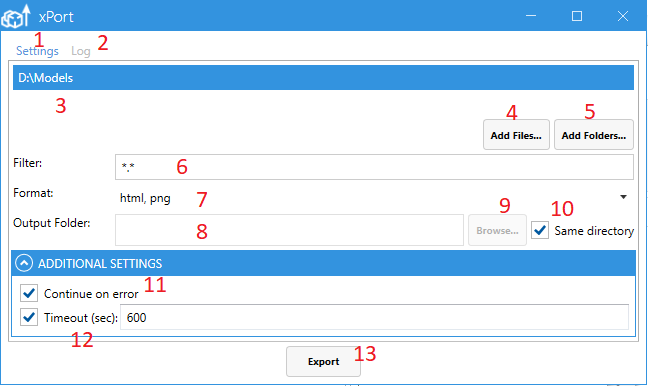
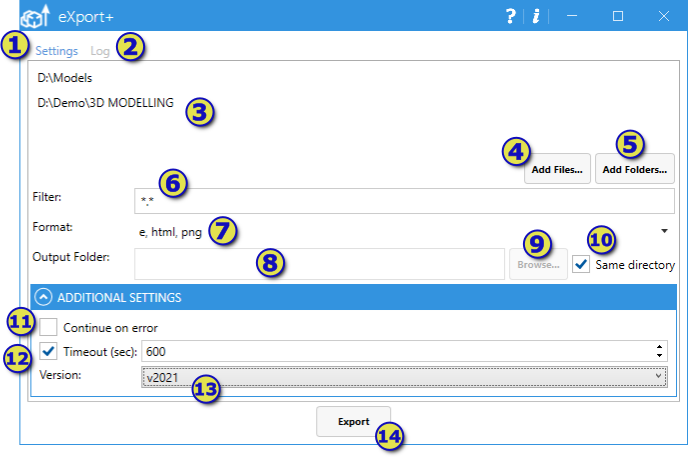
Updated documentation to match new version

Changed region(s): [[0.0, 0.0, 1.0, 1.0]]

diff --git a/docs/batch/user-interface/index.md b/docs/batch/user-interface/index.md
@@ -43,6 +43,8 @@ Backstage panel is available when **File** command is clicked in the ribbon tool
 1. Save current document
 1. Save current document as new file
 1. Close active document
+1. Navigate to help web page
+1. Open About dialog
 
 > When creating new document or opening existing one while there is an active document, command will open new window.
 
@@ -70,17 +72,50 @@ Document settings can be controlled in the settings group.
 ![Settings ribbon group](ribbon-bar-settings.png)
 
 1. Version of SOLIDWORKS to launch for opening files and running macros
-1. Safe startup options - runs SOLIDWORKS in safe mode bypassing options
+1. Safe startup options - runs SOLIDWORKS in safe mode bypassing options. If this option is selected none of the add-ins will be loaded to the session of SOLIDWORKS
 1. Background startup - runs SOLIDWORKS in background. This option only available for SOLIDWORKS Professional or higher
 1. Silent startup option - runs SOLIDWORKS and with disabled popup messages and splash screen
+1. Hidden startup option - hides SOLIDWORKS window. This can improve performance however some of the API might not work properly in this mode
 1. Silent file open option - suppresses all popup dialogs, such as missing references when opening file
-1. Read Only file open option - open files in read-only mode ensuring it cannot be overwritten
 1. Rapid file open option - open files in a rapid mode:
     * For drawings - opens in detailing mode. Some of the APIs might not be available in this mode
-    * For parts and assemblies - currently not supported and will be ignored
+    * For assemblies - components are loaded lightweight
+    * For parts - currently not supported and will be ignored
+1. Invisible mode. Allows to open all files invisibly. This significantly improves the performance however some of the API might not be accessible. Macro need to access arguments to connect to the target document as active model will not be available due to it was opened in invisible mode. Read [Model pointer in invisible mode](#model-pointer-in-invisible-mode) for more information
+1. Read Only file open option - open files in read-only mode ensuring it cannot be overwritten
+1. Forbid Files Upgrade - allows to forbid upgrade of the file if it is of a later version than the SOLIDWORKS. SOLIDWORKS is backward compatible, but not forward compatible which means that files cannot be opened in the older version of SOLIDWORKS. This option checks if current session of SOLIDWORKS is newer than the file and rejects saving operation if this is the case. It is recommended to keep this option selected unless it is explicitly required to upgrade files.
+1. Automatically Save Documents - this option will perform the save of the document after each macro run
 1. Processing timeout in seconds for processing a single file
 1. Allows batch process to continue if any of the files failed to process (for example file cannot be opened). If this option is not checked, batch process will be terminated once the error appears.
 1. Batch size - maximum number of files allowed to process within single session of SOLIDWORKS. Once this maximum is reached Batch+ automatically restarts SOLIDWORKS and continues to process files. This option allows to release resources and improve the performance of batch operations.
+
+#### Model pointer in invisible mode
+
+Most VBA macros will connect to active SOLIDWORKS model and perform the operation. The code will look like this:
+
+~~~ vb jagged-bottom
+Dim swApp As SldWorks.SldWorks
+Dim swModel As SldWorks.ModelDoc2
+~~~
+
+~~~ vb jagged
+Set swModel = swApp.ActiveDoc
+~~~
+
+When invisible mode is selected document is opened hidden thus the ISldWorks::ActiveDoc API will return Nothing as there is no active visible document.
+
+In this case it is required to access the pointer to the model from the arguments passed from Batch+ to the macro.
+
+~~~ vb jagged
+Dim macroRunner As Object
+Set macroRunner = CreateObject("CadPlus.MacroRunner.Sw")
+
+Dim param As Object
+Set param = macroRunner.PopParameter(swApp)
+
+Dim swModel As SldWorks.ModelDoc2
+Set swModel = param.Get("Model")
+~~~
 
 ### Job
 
@@ -103,9 +138,14 @@ Select items and hit **Del** button to remove them from the scope.
 
 ![Macros panel](macros-panel.png)
 
+1. Path to the macro
+2. Optional macro arguments
+
 This panel defines list of macros to run on each file. Drag-n-drop macros directly to the panel or use [input group in ribbon](#input) to add macros with browse dialogs.
 
 Select items and hit **Del** button to remove macros from the scope.
+
+Specify the arguments in the command line format if macro supports ones. Follow [Macro Arguments](/macro-arguments/) article of the instructions of how to use macro arguments.
 
 ## Jobs
 

diff --git a/docs/index.md b/docs/index.md
@@ -11,22 +11,24 @@ image: /logo.svg
 
 ## Features
 
-**CAD+ Toolset** is packaged in 2 editions:
+**CAD+ Toolset** is packaged in 4 editions:
 
 * **Community Edition**. Free and open source version of the application. Source code is available on the [GitHub](https://github.com/xarial/cad-plus). Community edition can also be used for commercial use.
 
-* **Professional Edition**. Paid version of the application. Provides additional features and benefits.
+* **Standard Edition**, **Professional Edition**, **Premium Edition**. Paid versions of the application. Provides additional features and benefits.
 
 Please see the table below for the list of features and their availability in the specific editions.
 
-| Feature                                                           | Community Edition | Professional Edition |
-|-------------------------------------------------------------------|:-----------------:|:--------------------:|
-| [eXport+ User Interface](/export/command-line/)                      | &#x2714;          | &#x2714;             |
-| [eXport+ Command Line](/export/user-interface/)                      | &#x2714;          | &#x2714;             |
-| [Toolbar+](/toolbar)                                 | &#x2714;          | &#x2714;             |
-| [Toolbar+ Triggers](/toolbar/configuration/triggers) | &#x2714;          | &#x2714;             |
-| [Batch+ User Interface](/batch/command-line/)                    | &#x2714;          | &#x2714;             |
-| [Batch+ Command Line](/batch/user-interface/)                    | &#x2714;          | &#x2714;             |
+| Feature                                                           | Community Edition | Standard Edition | Professional Edition | Premium Edition |
+|-------------------------------------------------------------------|:-----------------:|:--------------------:|:--------------------:|:--------------------:|
+| [eXport+ User Interface](/export/command-line/)                      | &#x2714;          | &#x2714;             | &#x2714;             | &#x2714;             |
+| [eXport+ Command Line](/export/user-interface/)                      | &#x2714;          | &#x2714;             | &#x2714;             | &#x2714;             |
+| [Toolbar+](/toolbar)                                 | &#x2714;          | &#x2714;             | &#x2714;             | &#x2714;             |
+| [Toolbar+ Triggers](/toolbar/configuration/triggers) | &#x2714;          | &#x2714;             | &#x2714;             | &#x2714;             |
+| [Batch+ User Interface](/batch/command-line/)                    | &#x2714;          | &#x2714;             | &#x2714;             | &#x2714;             |
+| [Batch+ Command Line](/batch/user-interface/)                    | &#x2714;          | &#x2714;             | &#x2714;             | &#x2714;             |
+| [Batch+ For Assemblies](/batch/assembly/)                    | &#x2714;          | &#x2714;             | &#x2714;             | &#x2714;             |
+| [Arguments supported macros](/macro-arguments/)                    | &#x2714;          | &#x2714;             | &#x2714;             | &#x2714;             |
 
 ## Download
 
@@ -38,7 +40,7 @@ When starting the application for the first time the following message will be d
 
 You can continue to use unregistered version, but we encourage you to register your copy to suppress the popup message. Please find more information on [register](/register/) page
 
-**Professional Edition** is not yet available for download.
+**Standard Edition**, **Professional Edition**, **Premium Edition** are not yet available for download.
 
 ## Updates
 

diff --git a/docs/toolbar/configuration/index.md b/docs/toolbar/configuration/index.md
@@ -31,9 +31,10 @@ Configure the parameters as shown below:
 1. Add new macro button in toolbar
 1. Title of the macro button. It displayed as a bold header in the tooltip when mouse hovers a button in SOLIDWORKS toolbar
 1. Description of the macro button. It displayed as a sub-header in the tooltip and in the SOLIDWORKS task bar in the bottom right corner when mouse hovers a button in SOLIDWORKS toolbar
-1. Path to icon of the macro button. Optimal size is between 16x16 and 120x120 in PNG format, however image will be automatically scaled and aligned which allows support for any size (including different width and height). Transparency is supported.
+1. Path to icon of the macro button. Raster image files - optimal size is between 16x16 and 120x120 in PNG format, however image will be automatically scaled and aligned which allows support for any size (including different width and height). Transparency is supported. Scalable Vector Graphics images in SVG (recommended option). Provides the best quality for icons as it will be scaled without quality loss depending on the resolution of the screen and button sizes.
 1. Full path to macro to run
 1. Macro entry point. This is the subroutine which should be run first when executing the macro. This is a parameterless subroutine (usually named main). Toolbar+ will try to automatically find the best suitable subroutine
+1. Macro custom arguments. See [arguments](arguments/) article for more information
 1. Triggers. Macro trigger options. Follow [triggers](triggers) article for more information
 1. Command scope. Identifies the scope (part, assembly, drawing, no documents) where macro can be run. Macro will be disabled in the not selected environments
 1. Command location. Identifies where command should be added (menu, toolbar). This option is only available for **Button** and **Toggle Button** triggers

diff --git a/docs/batch/assembly/index.md b/docs/batch/assembly/index.md
@@ -1,0 +1,29 @@
+---
+caption: Assembly
+title: Running batch operation for assembly
+description: Executing batch operation for all files or selected components in the SOLIDWORKS assembly
+order: 3
+image: property-page.png
+---
+Batch+ can be run directly within assembly environment.
+
+![Menu command for Batch+ for assembly](menu-command.png)
+
+In this case custom macro can be run on the selected components or all referenced documents.
+
+![Batch+ Property Manager Page](property-page.png)
+
+1. Components to run the macro on
+1. Processes all dependent document of active assembly (including suppressed components)
+1. List of macros to run
+1. Optional macro arguments. Specify the arguments in the command line format if macro supports ones. Follow [Macro Arguments](/macro-arguments/) article of the instructions of how to use macro arguments.
+1. Button to add macros to the scope
+1. Specifies if documents needs to be activated (opened in their own windows). If this option is not selected macro will be run on invisible models. Follow [Model pointer in invisible mode](/batch/user-interface#model-pointer-in-invisible-mode) for more information.
+
+Progress of the batch operation is reported in the progress bar in SOLIDWORKS icon. And the currently processed file is displayed in the status bar.
+
+![Progress of batch operation](progress-status.png)
+
+After completion the result, summary and log page is displayed.
+
+![Results of batch operation](results.png)

diff --git a/docs/batch/command-line/index.md b/docs/batch/command-line/index.md
@@ -9,6 +9,8 @@ redirect-from:
 ---
 ![Command line output of Batch+](batch-command-line.png)
 
+**batchplus.exe** can be found in the installation folder (usually *C:\Program Files\Xarial\CAD+ Toolset\batchplus.exe*).
+
 Refer the list of available arguments below. Use -- symbol to use arguments. Use --help argument to display help i the console.
 
 For example the below command will open all SOLIDWORKS part files from the *D:\Demo\Batch\Models* folder and run 2 macros: Macro1.swp and Macro2.swp. SOLIDWORKS 2020 will be started silently and in the background.
@@ -31,7 +33,7 @@ Job can be created dynamically with specified input parameters and settings.
 | -s  |  --startup | No  | Specifies the startup options (silent, background, safe) for the host application. Multiple option can be used |
 | -b  |  --batch|No|Maximum number of files to process in the single session of CAD application before restarting
 | -v  |  --hostversion | No  | Version of SOLIDWORKS application. Use one of the following formats: 2020, Sw2020, SOLIDWORKS 2020. If this option is not specified than the oldest version installed on this system will be used. |
-| -o  |  --open | No  | Specifies options (silent, readonly, rapid) for the file opening. Default: silent |
+| -o  |  --open | No  | Specifies options (silent, readonly, rapid, invisible) for the file opening. Default: silent |
 
 ## Run existing job
 

diff --git a/docs/export/command-line/index.md b/docs/export/command-line/index.md
@@ -26,4 +26,5 @@ For example the below command will export all drawing files (*.slddrw) from the 
 |  -o |  --out |  No | Path to the directory to export results to. Tool will automatically create directory if it doesn’t exist. If this parameter is not specified, files will be exported to the same folder as the input file  |
 | -f  | --format  |  Yes | List of formats to export the files to. Supported formats: .jpg, .tif, .bmp, .png, .stl, .exe, .htm, .html, .pdf, .zip, .edrw, .eprt, and .easm. Specify .e to export to the corresponding format of eDrawings (e.g. .sldprt is exported to .eprt, .sldasm to .easm, .slddrw to .edrw). If this parameter is not specified than file will be exported to eDrawings. PDF format is only supported on Windows 10  |
 | -e  |  --error | No  | If this option is used export will continue if any of the files or formats failed to process, otherwise the export will terminate  |
-| -t  |  --timeout | No  | Timeout in seconds for processing a single item (e.g. exporting single file to a single format)")]
+| -t  |  --timeout | No  | Timeout in seconds for processing a single item (e.g. exporting single file to a single format) |
+| -v  |  --appversion | No  | Version of eDrawings to run (expected values 2019, 2020, 2021) |

diff --git a/docs/macro-arguments/index.md b/docs/macro-arguments/index.md
@@ -3,7 +3,34 @@ title: Managing VBA macro arguments in CAD+
 caption: Macro Arguments
 description: Instructions of how to pass and consume custom VBA macro arguments using CAD+
 order: 5
-sitemap: false
-toc: false
 ---
-Under construction...
+## Passing parameters to the macro
+
+Coming soon...
+
+## Retrieving parameters in the macro
+
+When parameters are passed to the macro via [Toolbar+](/toolbar/), [Batch+](/batch/) or from custom invocation, macro can retrieve them by accessing the **CadPlus.MacroRunner.Sw::PopParameter** method.
+
+Call **::Get** method to get specific parameter by name.
+
+~~~ vb
+Dim macroRunner As Object
+Set macroRunner = CreateObject("CadPlus.MacroRunner.Sw")
+
+Dim param As Object
+Set param = macroRunner.PopParameter(swApp)
+    
+Dim vArgs As Variant
+vArgs = param.Get("Args")
+
+Dim text As String
+text = param.Get("Text")
+
+Dim swModel As SldWorks.ModelDoc2
+Set swModel = param.Get("Model")
+~~~
+
+### Setting result
+
+Coming soon...

diff --git a/docs/toolbar/customization/index.md b/docs/toolbar/customization/index.md
@@ -32,3 +32,19 @@ Drag-n-drop the required command into the SOLIDWORKS toolbar area (other toolbar
 ![Adding macro button to command tab box](drag-n-drop-command.png)
 
 > Due to current limitation, the commands are not rendered properly in the *Buttons* area as shown on the picture below. But still can be dragged onto the toolbar and will function as normal.
+
+## Adding commands to context menu
+
+Some commands usually execute in the selection context (for example requires preselection of certain objects, e.g. components).
+
+![Command in context menu](context-menu.png)
+
+In this case it will be beneficial to host command in context menu.
+
+In order to add command to context menu. Select the target context menu and click **Customize...**
+
+![Customizing context menu](context-menu-customize.png)
+
+Find the required command and drag-n-drop it to the target position in the context menu.
+
+![Drag-n-drop command to context menu](drag-drop-context-menu.png)

diff --git a/docs/toolbar/configuration/arguments/index.md b/docs/toolbar/configuration/arguments/index.md
@@ -3,7 +3,26 @@ title: Passing arguments to macros in Toolbar+
 caption: Arguments
 description: Passing and consuming custom VBA macro arguments in macros hosted in Toolbar+
 order: 3
-sitemap: false
-toc: false
 ---
-Under construction...
+Toolbar+ can pass [Macro Arguments](/macro-arguments/) to the macro.
+
+Arguments should be specified in command line format in the corresponding field
+
+![Macro arguments](macro-arguments.png)
+
+> Enclose value into quote "" if value contains space or new line symbol
+
+Toolbar+ will parse the arguments and assign this to a variant of strings **Args**
+
+Following code snippet can be used within VBA macro to retrieve the arguments.
+
+~~~ vb
+Dim macroRunner As Object
+Set macroRunner = CreateObject("CadPlus.MacroRunner.Sw")
+
+Dim param As Object
+Set param = macroRunner.PopParameter(swApp)
+    
+Dim vArgs As Variant
+vArgs = param.Get("Args")
+~~~

diff --git a/docs/export/user-interface/index.md b/docs/export/user-interface/index.md
@@ -29,6 +29,7 @@ User Interface provides a visual way to configure the export process. There are 
 8. Output files in the same directory as original files
 8. Allows exporting process to continue if any of the export operations fail (for example one of the files in the queue is broken). If this option is not checked, export process will be terminated once the error appears.
 8. Processing timeout in seconds of exporting a single file to single output format (e.g. exporting Part1.sldprt to Part1.html)
+8. Version of eDrawings to run
 8. Button to start exporting process. Export button enables when all required inputs are specified (input folders and files and export formats)
 
 ## Log

diff --git a/docs/export/index.md b/docs/export/index.md
@@ -41,4 +41,8 @@ After installation of CAD+ Toolset, eXport+ application can be found in the Wind
 
 ![eXport+ application in the Windows start menu](export-start-menu.png)
 
+Application can also be started directly from SOLIDWORKS menu
+
+![eXport+ command in SOLIDWORKS menu](export-sw-menu-start.png)
+
 eXport+ provides [user interface](user-interface) and [command line interface](command-line) for configuring the publishing job.

diff --git a/docs/batch/index.md b/docs/batch/index.md
@@ -17,4 +17,8 @@ Once installed application icon is available in the Windows start menu
 
 ![Batch+ command in the Windows start menu](batch-windows-start.png)
 
+Application can also be started directly from SOLIDWORKS menu
+
+![Batch+ command in SOLIDWORKS menu](batch-sw-menu-start.png)
+
 > It is strongly recommended to backup your data before using the batch operation as it may irrevocably modify files
